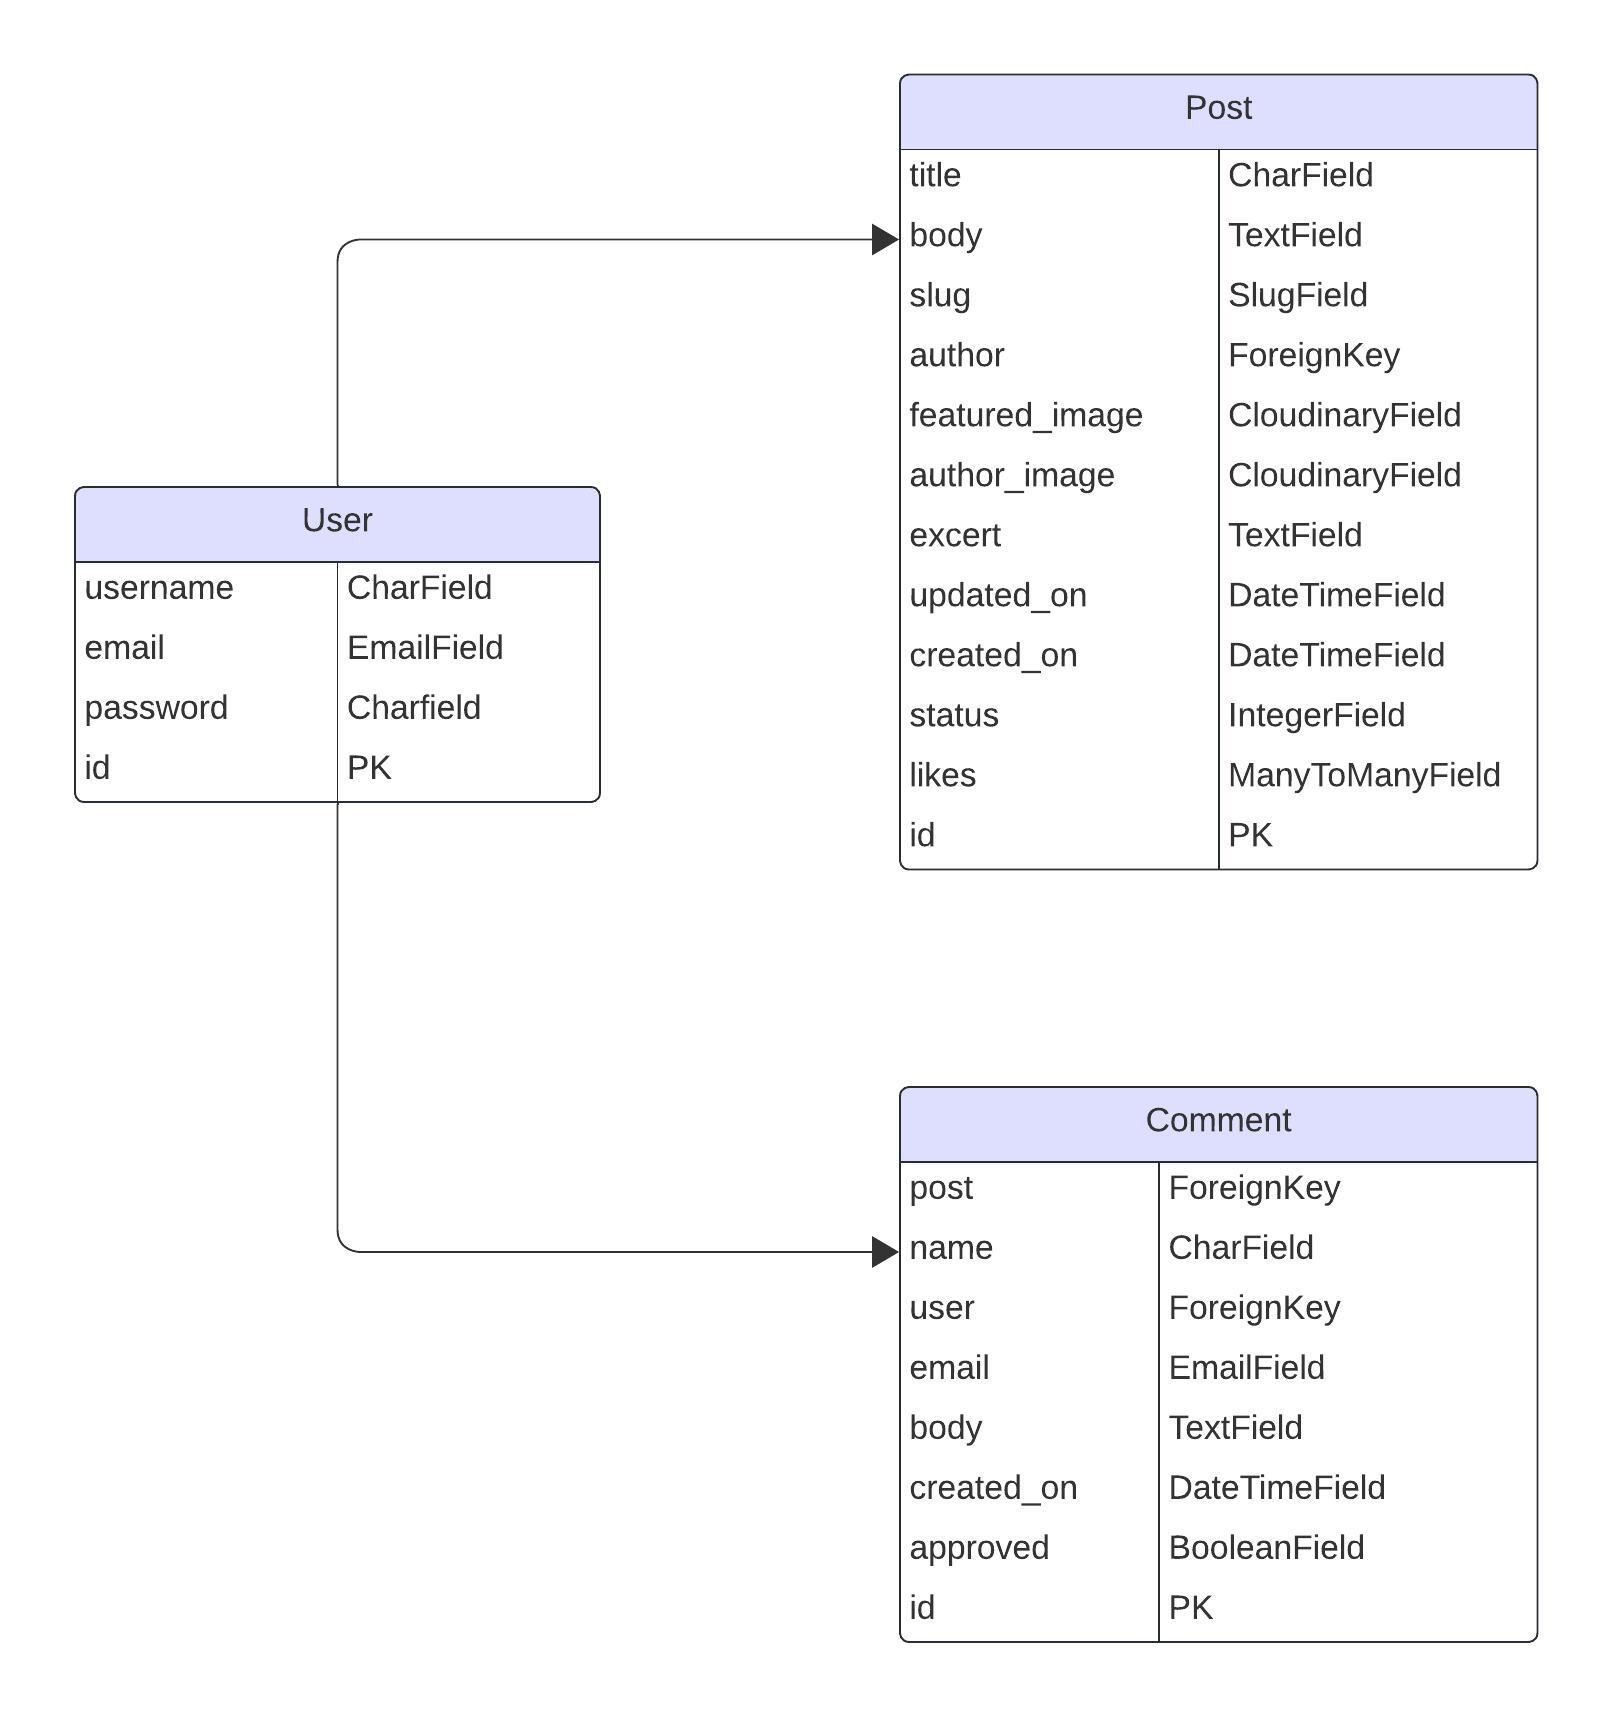
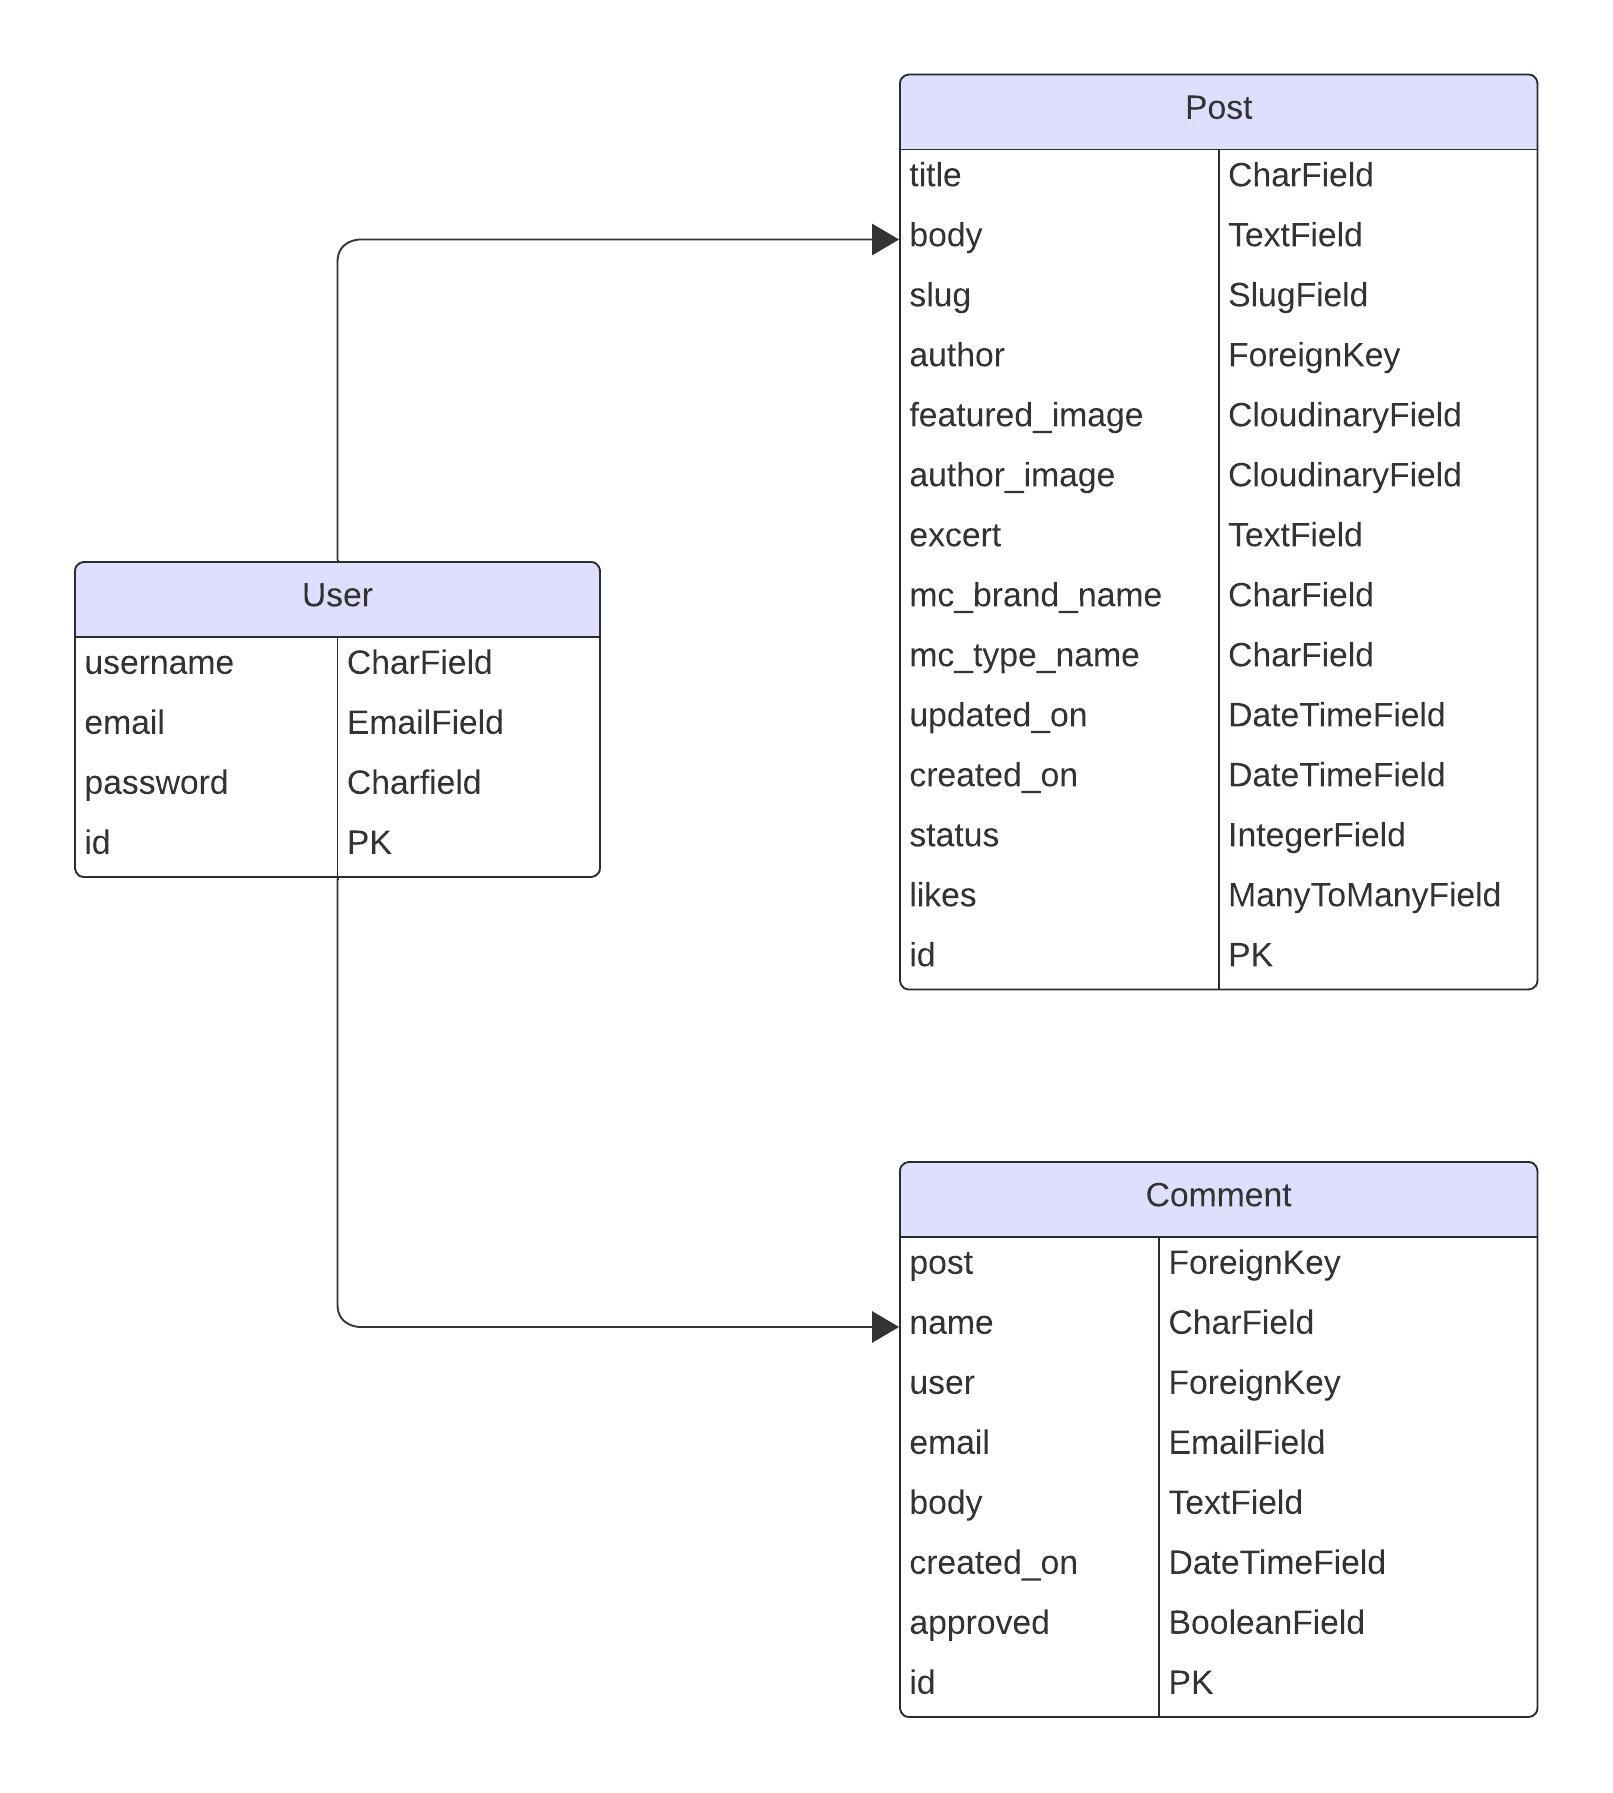
update readme post model and database image

diff --git a/README.md b/README.md
@@ -190,7 +190,7 @@ All images used in these blog posts are my own.
     * Admin can add, delete and update posts through djangos admin panel.
     * Only Admin can change the data in the backend.
     * User can see the posts created by other users.
-    * Tools to be used in posts are: title, body, slug, author, featured-image, author-image, excert, updated-on, created-on, status, likes and id.
+    * Tools to be used in posts are: title, body, slug, author, featured-image, author-image, excert, brand-name, type-name, updated-on, created-on, status, likes and id.
     * Full CRUD functionality is available to the user.
 ---
 4. Comment Model
